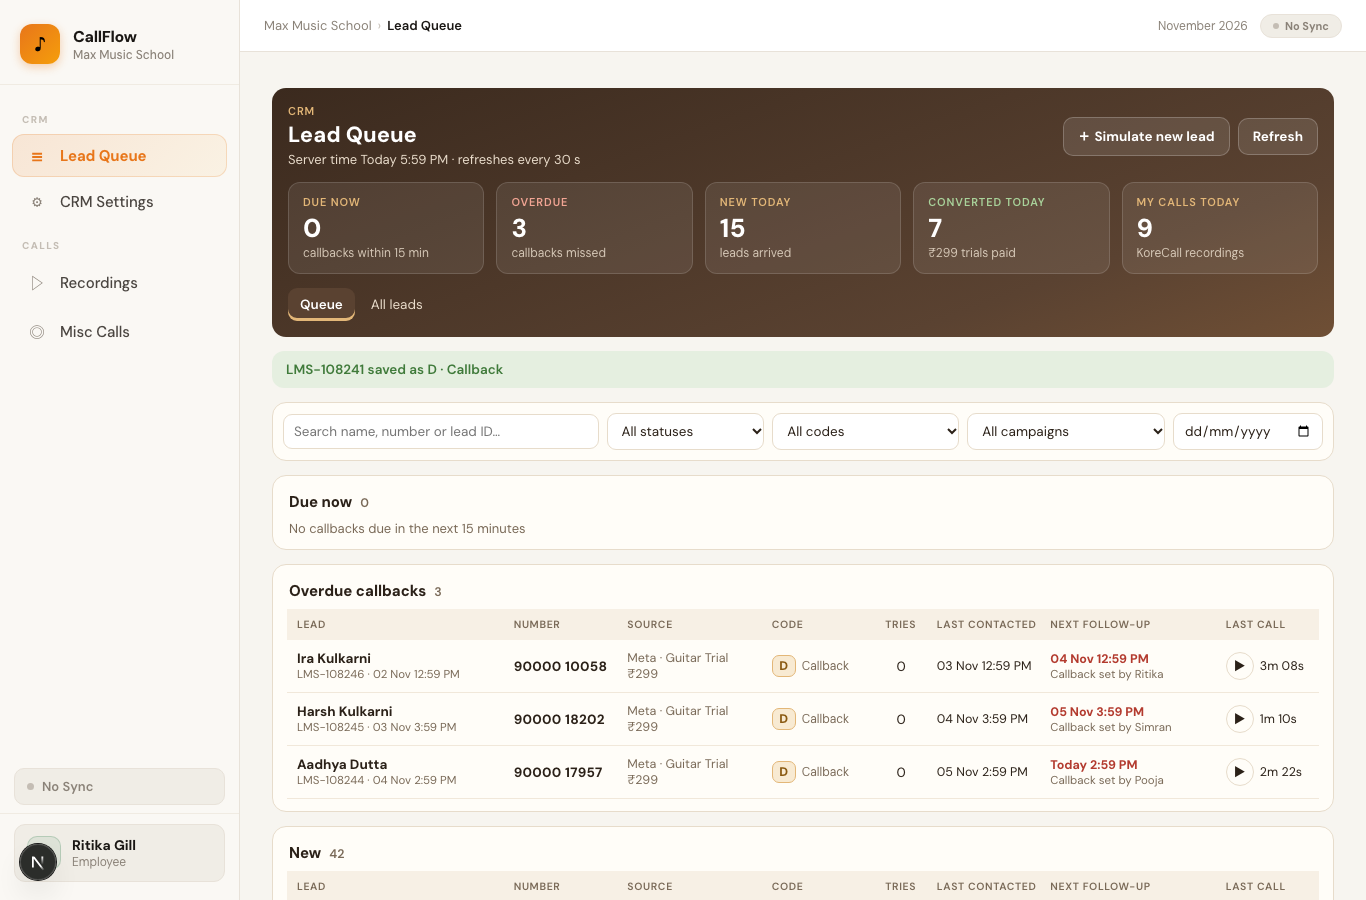
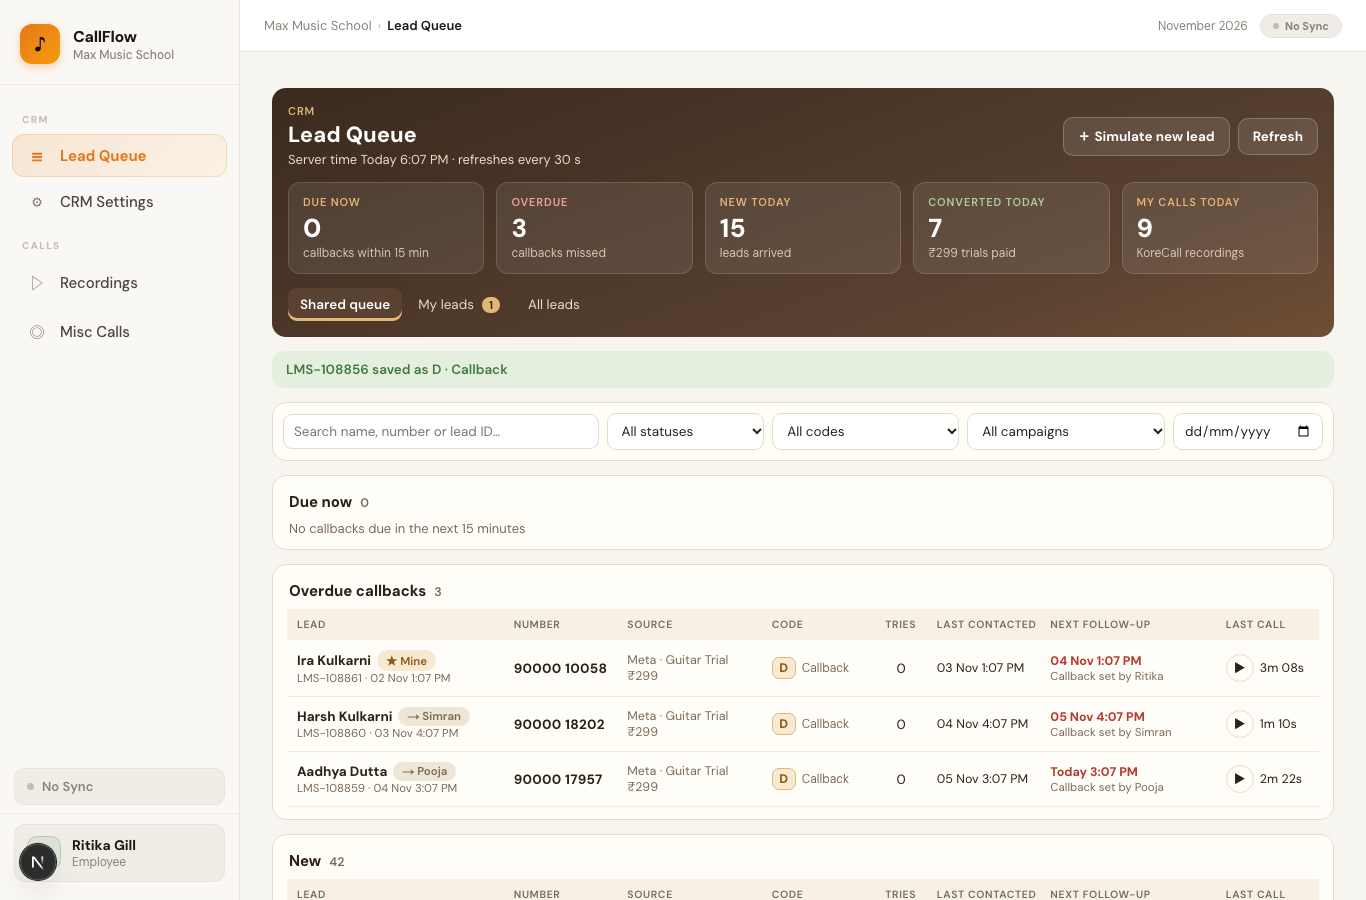
feat(crm): assign leads to reps (All Leads) and a My leads tab in the queue
- POST /crm/leads/assign (owner or reassign_leads): bulk assign or move
  back to the shared pool; bumps version and logs it in the lead history
- All Leads: Assigned-to filter, checkboxes, sticky Assign / Unassign bar,
  assignee column in the CSV export
- Queue: Shared queue / My leads (count) / All leads tabs; rows show
  '★ Mine' or '→ <rep>'; the shared queue still shows every lead
- DB test for assign / unassign / stale-version / bad rep

diff --git a/apps/web/app/dashboard/crm/leads/page.tsx b/apps/web/app/dashboard/crm/leads/page.tsx
@@ -6,7 +6,7 @@ import useSWR from "swr";
 import { R } from "@/components/report/kit";
 import Pagination from "@/components/ui/Pagination";
 import { api, fetcher } from "@/lib/api";
-import { CODES, STATUS_LABEL, type LeadRow } from "@/lib/crm";
+import { CODES, STATUS_LABEL, type CrmConfig, type LeadRow } from "@/lib/crm";
 import { useAuth } from "@/hooks/useAuth";
 import { useCrmMe } from "@/hooks/useCrmMe";
 import { Btn, CRM_CSS, HeaderBand, inputStyle } from "@/components/crm/kit";
@@ -19,15 +19,35 @@ export default function AllLeadsPage() {
   const { isOwner, id: meId } = useAuth();
   const { can, loaded } = useCrmMe();
   const [q, setQ] = useState("");
-  const [f, setF] = useState({ q: "", status: "", code: "", date: "" });
+  const [f, setF] = useState({ q: "", status: "", code: "", date: "", assigned: "" });
   const [sort, setSort] = useState<SortState>({ sort: "created_at", dir: "desc" });
   const [page, setPage] = useState(1);
   const [open, setOpen] = useState<string | null>(null);
   const [exporting, setExporting] = useState(false);
   const player = useInlinePlayer();
+  const [selected, setSelected] = useState<Set<string>>(new Set());
+  const [assignTo, setAssignTo] = useState("");
+  const [assignMsg, setAssignMsg] = useState("");
+  const [assigning, setAssigning] = useState(false);
+  const { data: cfg } = useSWR<CrmConfig>("/crm/config", fetcher);
 
   useEffect(() => { const t = setTimeout(() => setF((x) => ({ ...x, q })), 300); return () => clearTimeout(t); }, [q]);
-  useEffect(() => setPage(1), [f, sort]);
+  useEffect(() => { setPage(1); setSelected(new Set()); }, [f, sort]);
+  const select = (ids: string[], on: boolean) => setSelected((s) => { const n = new Set(s); ids.forEach((id) => (on ? n.add(id) : n.delete(id))); return n; });
+  const assign = async (employeeId: string | null) => {
+    setAssigning(true);
+    setAssignMsg("");
+    try {
+      const r = await api.post<{ updated: number; assigned_to_name: string | null }>("/crm/leads/assign", { lead_ids: [...selected], employee_id: employeeId });
+      setAssignMsg(r.assigned_to_name ? `${r.updated} lead${r.updated === 1 ? "" : "s"} assigned to ${r.assigned_to_name}` : `${r.updated} lead${r.updated === 1 ? "" : "s"} moved back to the shared pool`);
+      setSelected(new Set());
+      mutate();
+    } catch (e) {
+      setAssignMsg(`! ${(e as Error).message}`);
+    } finally {
+      setAssigning(false);
+    }
+  };
 
   const params = new URLSearchParams(Object.entries({ ...f, ...sort }).filter(([, v]) => v) as [string, string][]);
   const allowed = can("export_leads");
@@ -62,11 +82,33 @@ export default function AllLeadsPage() {
         <select value={f.code} onChange={(e) => setF({ ...f, code: e.target.value })} aria-label="Code" style={{ ...inputStyle, flex: "1 1 130px", width: "auto" }}>
           <option value="">All codes</option>{CODES.map((c) => <option key={c.code} value={c.code}>{c.code} · {c.label}</option>)}
         </select>
+        <select value={f.assigned} onChange={(e) => setF({ ...f, assigned: e.target.value })} aria-label="Assigned to" style={{ ...inputStyle, flex: "1 1 150px", width: "auto" }}>
+          <option value="">Anyone / shared pool</option><option value="none">Unassigned only</option>
+          {cfg?.reps.map((r) => <option key={r.id} value={r.id}>Assigned to {r.name}</option>)}
+        </select>
         <input type="date" value={f.date} onChange={(e) => setF({ ...f, date: e.target.value })} aria-label="Lead date" style={{ ...inputStyle, flex: "0 1 150px", width: "auto" }} />
       </div>
+      {can("reassign_leads") && (
+        <div role="region" aria-label="Assign selected leads" style={{ position: "sticky", top: 8, zIndex: 5, display: "flex", gap: 10, alignItems: "center", flexWrap: "wrap",
+          background: selected.size ? "linear-gradient(135deg,#3b2a1e,#5a4231)" : R.card, color: selected.size ? "#fff" : R.mute,
+          border: `1px solid ${selected.size ? "transparent" : R.line}`, borderRadius: 14, padding: "10px 14px", transition: "background .2s" }}>
+          <b style={{ fontSize: 14 }}>{selected.size ? `${selected.size} selected` : "Tick leads to assign them to a rep"}</b>
+          {selected.size > 0 && <>
+            <select value={assignTo} onChange={(e) => setAssignTo(e.target.value)} aria-label="Representative" style={{ ...inputStyle, width: 220 }}>
+              <option value="">Choose a representative…</option>
+              {cfg?.reps.map((r) => <option key={r.id} value={r.id}>{r.name}</option>)}
+            </select>
+            <Btn onClick={() => assign(assignTo)} disabled={!assignTo || assigning}>{assigning ? "Assigning…" : "Assign"}</Btn>
+            <Btn kind="light" onClick={() => assign(null)} disabled={assigning} title="Back to the shared pool, open to everyone">Unassign</Btn>
+            <Btn kind="light" onClick={() => setSelected(new Set())}>Clear</Btn>
+          </>}
+          {assignMsg && <span role="status" style={{ marginLeft: "auto", fontSize: 13, fontWeight: 600, color: assignMsg.startsWith("!") ? "#f2a594" : selected.size ? "#a9d39b" : R.good }}>{assignMsg}</span>}
+        </div>
+      )}
       <section style={{ background: R.card, border: `1px solid ${R.line}`, borderRadius: 14, padding: "12px 14px" }}>
         {!data ? <p style={{ color: R.mute }}>Loading…</p> : <>
-          <LeadTable rows={data.data} onOpen={setOpen} player={player} now={Date.now()} meId={meId} sort={sort} onSort={setSort} />
+          <LeadTable rows={data.data} onOpen={setOpen} player={player} now={Date.now()} meId={meId} sort={sort} onSort={setSort}
+            selected={can("reassign_leads") ? selected : undefined} onSelect={select} />
           <div style={{ marginTop: 10 }}><Pagination page={page} totalPages={Math.ceil(data.total / PAGE)} onPageChange={setPage} /></div>
         </>}
       </section>

diff --git a/apps/api/src/services/crm.service.ts b/apps/api/src/services/crm.service.ts
@@ -281,11 +281,13 @@ export const queueFilterSchema = z.object({
   code: z.string().max(1).optional(),
   campaign: z.string().max(150).optional(),
   date: z.string().regex(/^\d{4}-\d{2}-\d{2}$/).optional(),
+  // "me", "none" (unassigned) or an employee id
+  assigned: z.union([z.enum(["me", "none"]), z.string().uuid()]).optional(),
 });
 type Filters = z.infer<typeof queueFilterSchema>;
 
 /** WHERE fragments shared by the queue, the All Leads table and the CSV export. */
-export function leadFilters(f: Filters, values: unknown[]): string[] {
+export function leadFilters(f: Filters, values: unknown[], meId?: string): string[] {
   const where: string[] = [];
   const add = (sql: (n: number) => string, v: unknown) => { values.push(v); where.push(sql(values.length)); };
   if (f.q) {
@@ -300,6 +302,8 @@ export function leadFilters(f: Filters, values: unknown[]): string[] {
   if (f.code) add((n) => `l.current_code = $${n}`, f.code);
   if (f.campaign) add((n) => `l.campaign = $${n}`, f.campaign);
   if (f.date) add((n) => `(l.created_at AT TIME ZONE 'Asia/Kolkata')::date = $${n}::date`, f.date);
+  if (f.assigned === "none") where.push("l.assigned_to IS NULL");
+  else if (f.assigned) add((n) => `l.assigned_to = $${n}`, f.assigned === "me" ? meId : f.assigned);
   return where;
 }
 
@@ -308,7 +312,7 @@ export const LEAD_LIST_COLS = `
   l.last_contacted_at, l.next_followup_at, l.created_at, l.amount, l.tags, l.student_set_time,
   CASE WHEN l.locked_until > NOW() THEN k.name END AS locked_by_name,
   CASE WHEN l.locked_until > NOW() THEN l.locked_by END AS locked_by,
-  cb.name AS callback_set_by_name, asg.name AS assigned_to_name,
+  cb.name AS callback_set_by_name, l.assigned_to, asg.name AS assigned_to_name,
   (SELECT json_build_object('id', c.id, 'duration_secs', c.duration_secs, 'called_at', c.called_at,
                             'has_audio', c.audio_storage_key IS NOT NULL)
    FROM calls c WHERE c.phone10 = l.phone10 ORDER BY c.called_at DESC LIMIT 1) AS last_call`;
@@ -321,7 +325,7 @@ const SECTION_CAP = 200;
 
 export async function queue(user: User, f: Filters, now = new Date()) {
   const values: unknown[] = [];
-  const where = ["l.status IN ('new','retry','callback')", ...leadFilters(f, values)];
+  const where = ["l.status IN ('new','retry','callback')", ...leadFilters(f, values, user.sub)];
   const { rows } = await pool.query(
     `SELECT ${LEAD_LIST_COLS},
        (SELECT coalesce(i.note, i.reason) FROM lead_interactions i
@@ -342,7 +346,8 @@ export async function queue(user: User, f: Filters, now = new Date()) {
     `SELECT
        (SELECT count(*) FROM leads WHERE created_at >= ${IST_TODAY_START})::int AS new_today,
        (SELECT count(*) FROM lead_interactions WHERE code = 'F' AND created_at >= ${IST_TODAY_START})::int AS converted_today,
-       (SELECT count(*) FROM calls WHERE employee_id = $1 AND called_at >= ${IST_TODAY_START})::int AS my_calls_today`,
+       (SELECT count(*) FROM calls WHERE employee_id = $1 AND called_at >= ${IST_TODAY_START})::int AS my_calls_today,
+       (SELECT count(*) FROM leads WHERE assigned_to = $1 AND status IN ('new','retry','callback'))::int AS my_leads`,
     [user.sub]
   );
   return { server_now: now, counts, sections, kpis: { due_now: counts.due_now, overdue: counts.overdue, ...k } };
@@ -448,4 +453,42 @@ export async function reconcile(ids: string[]): Promise<string[]> {
     [ids]
   );
   return rows.map((r) => r.x);
+}
+
+/**
+ * Owner / reassign_leads: give leads to a rep (or back to the pool with null).
+ * Bumps each lead's version so an open form elsewhere gets the 409 reload, and
+ * logs who did it in the lead's history.
+ */
+export async function assignLeads(leadIds: string[], employeeId: string | null, user: User) {
+  const client = await pool.connect();
+  try {
+    await client.query("BEGIN");
+    let repName: string | null = null;
+    if (employeeId) {
+      const { rows: [e] } = await client.query("SELECT name FROM employees WHERE id = $1 AND status = 'active' AND role = 'employee'", [employeeId]);
+      if (!e) throw new CrmError(400, "Pick an active representative");
+      repName = e.name;
+    }
+    const { rows } = await client.query(
+      `UPDATE leads SET assigned_to = $2, version = version + 1, updated_by = $3, updated_at = NOW()
+       WHERE id = ANY($1::uuid[]) AND assigned_to IS DISTINCT FROM $2 RETURNING id`,
+      [leadIds, employeeId, user.sub]
+    );
+    if (rows.length) {
+      await client.query(
+        `INSERT INTO lead_interactions (lead_id, employee_id, kind, note, meta)
+         SELECT id, $2, 'system', $3, $4 FROM unnest($1::uuid[]) AS id`,
+        [rows.map((r) => r.id), user.sub, repName ? `Assigned to ${repName} by ${user.name}` : `Moved back to the shared pool by ${user.name}`,
+         JSON.stringify({ assigned_to: employeeId })]
+      );
+    }
+    await client.query("COMMIT");
+    return { updated: rows.length, assigned_to_name: repName };
+  } catch (e) {
+    await client.query("ROLLBACK");
+    throw e;
+  } finally {
+    client.release();
+  }
 }

diff --git a/apps/web/app/dashboard/crm/page.tsx b/apps/web/app/dashboard/crm/page.tsx
@@ -16,6 +16,7 @@ import Pagination from "@/components/ui/Pagination";
 const IS_DEV = process.env.NODE_ENV !== "production";
 type Filters = { q: string; status: string; code: string; campaign: string; date: string };
 const EMPTY: Filters = { q: "", status: "", code: "", campaign: "", date: "" };
+type View = "queue" | "mine" | "all";
 
 function qs(f: Filters, extra: Record<string, string | number> = {}) {
   const p = new URLSearchParams();
@@ -25,7 +26,7 @@ function qs(f: Filters, extra: Record<string, string | number> = {}) {
 
 export default function LeadQueuePage() {
   const { isOwner, id: meId } = useAuth();
-  const [tab, setTab] = useState<"queue" | "all">("queue");
+  const [tab, setTab] = useState<View>("queue");
   const [f, setF] = useState<Filters>(EMPTY);
   const [q, setQ] = useState("");
   const [open, setOpen] = useState<string | null>(null);
@@ -39,7 +40,7 @@ export default function LeadQueuePage() {
   useEffect(() => { const id = new URLSearchParams(window.location.search).get("lead"); if (id) setOpen(id); }, []);
   useEffect(() => { if (!toast) return; const t = setTimeout(() => setToast(""), 4000); return () => clearTimeout(t); }, [toast]);
 
-  const { data, error, mutate } = useSWR<QueueResponse>(`/crm/queue?${qs(f)}`, fetcher, { refreshInterval: 30_000 });
+  const { data, error, mutate } = useSWR<QueueResponse>(`/crm/queue?${qs(f, tab === "mine" ? { assigned: "me" } : {})}`, fetcher, { refreshInterval: 30_000 });
   const now = data ? new Date(data.server_now).getTime() : Date.now();
   const campaigns = [...new Set(Object.values(data?.sections ?? {}).flat().map((l) => l.campaign).filter(Boolean))] as string[];
 
@@ -73,7 +74,10 @@ export default function LeadQueuePage() {
           <BandTile label="My calls today" value={data?.kpis.my_calls_today ?? "—"} sub="KoreCall recordings" />
         </div>
         <nav aria-label="Queue views" style={{ display: "flex", gap: 4 }}>
-          <button style={tabBtn(tab === "queue")} onClick={() => setTab("queue")} aria-current={tab === "queue"}>Queue</button>
+          <button style={tabBtn(tab === "queue")} onClick={() => setTab("queue")} aria-current={tab === "queue"}>Shared queue</button>
+          <button style={tabBtn(tab === "mine")} onClick={() => setTab("mine")} aria-current={tab === "mine"}>
+            My leads {!!data?.kpis.my_leads && <span style={{ background: R.gold, color: "#3b2a1e", borderRadius: 999, fontSize: 11, fontWeight: 800, padding: "1px 7px" }}>{data.kpis.my_leads}</span>}
+          </button>
           <button style={tabBtn(tab === "all")} onClick={() => setTab("all")} aria-current={tab === "all"}>All leads</button>
         </nav>
       </HeaderBand>
@@ -98,8 +102,15 @@ export default function LeadQueuePage() {
       {error ? <p role="alert" style={{ color: R.bad }}>{(error as Error).message}</p>
         : tab === "all" ? <AllLeads f={f} onOpen={setOpen} player={player} now={now} meId={meId} />
         : !data ? <p style={{ color: R.mute }}>Loading queue…</p>
-        : (
+        : tab === "mine" && !Object.values(data.counts).some(Boolean) ? (
+          <section style={{ background: R.card, border: `1px solid ${R.line}`, borderRadius: 14, padding: "22px 18px", textAlign: "center", color: R.mute }}>
+            <b style={{ color: R.ink, fontSize: 15 }}>No leads assigned to you right now.</b>
+            <div style={{ fontSize: 13, marginTop: 4 }}>Work the shared queue: anything there is open to everyone.</div>
+            <div style={{ marginTop: 10 }}><Btn kind="ghost" onClick={() => setTab("queue")}>Go to the shared queue</Btn></div>
+          </section>
+        ) : (
           <>
+            {tab === "mine" && <p style={{ margin: "0 2px", fontSize: 13, color: R.mute }}>Leads the owner gave you, and callbacks assigned to you. Everyone can still see them in the shared queue.</p>}
             <Section title="Due now" rows={data.sections.due_now} count={data.counts.due_now} onOpen={setOpen} player={player} now={now} meId={meId} empty="No callbacks due in the next 15 minutes" />
             <Section title="Overdue callbacks" rows={data.sections.overdue} count={data.counts.overdue} onOpen={setOpen} player={player} now={now} meId={meId} empty="Nothing overdue" />
             <Section title="New" rows={data.sections.new} count={data.counts.new} onOpen={setOpen} player={player} now={now} meId={meId} empty="No new leads" />

diff --git a/apps/web/components/crm/LeadTable.tsx b/apps/web/components/crm/LeadTable.tsx
@@ -31,8 +31,10 @@ export function useInlinePlayer() {
 
 export type SortState = { sort: string; dir: "asc" | "desc" };
 
-export default function LeadTable({ rows, onOpen, player, now, meId, sort, onSort, empty = "No leads here" }: {
+export default function LeadTable({ rows, onOpen, player, now, meId, sort, onSort, empty = "No leads here", selected, onSelect }: {
   rows: LeadRow[]; onOpen: (id: string) => void; player: ReturnType<typeof useInlinePlayer>; now: number; meId: string;
+  /** Checkbox column (All Leads → assign) */
+  selected?: Set<string>; onSelect?: (ids: string[], on: boolean) => void;
   sort?: SortState; onSort?: (s: SortState) => void; empty?: string;
 }) {
   if (!rows.length) return <p style={{ margin: "6px 2px 0", color: R.mute, fontSize: 13 }}>{empty}</p>;
@@ -50,8 +52,12 @@ export default function LeadTable({ rows, onOpen, player, now, meId, sort, onSor
     <div style={{ overflowX: "auto" }}>
       <table style={{ width: "100%", borderCollapse: "collapse", fontSize: 13.5, tableLayout: "fixed", minWidth: 1000 }}>
         {/* Fixed widths so every queue section lines up */}
-        <colgroup>{[21, 11, 14, 11, 5, 11, 17, 10].map((w, i) => <col key={i} style={{ width: `${w}%` }} />)}</colgroup>
+        <colgroup>{(selected ? [3, 20, 11, 13, 11, 5, 11, 16, 10] : [21, 11, 14, 11, 5, 11, 17, 10]).map((w, i) => <col key={i} style={{ width: `${w}%` }} />)}</colgroup>
         <thead><tr>
+          {selected && onSelect && (
+            <th style={thStyle}><input type="checkbox" aria-label="Select all on this page" checked={rows.every((r) => selected.has(r.id))}
+              onChange={(e) => onSelect(rows.map((r) => r.id), e.target.checked)} style={{ width: 16, height: 16, accentColor: R.out }} /></th>
+          )}
           {head("Lead", "lead_code")}{head("Number")}{head("Source")}{head("Code", "status")}{head("Tries", "attempts")}
           {head("Last contacted", "last_contacted_at")}{head("Next follow-up", "next_followup_at")}{head("Last call")}
         </tr></thead>
@@ -59,13 +65,21 @@ export default function LeadTable({ rows, onOpen, player, now, meId, sort, onSor
           {rows.map((l) => {
             const due = l.bucket === "due_now";
             return (
-              <tr key={l.id} className={`crm-row${due ? " crm-due" : ""}`} tabIndex={0} style={{ cursor: "pointer" }}
+              <tr key={l.id} className={`crm-row${due ? " crm-due" : ""}`} tabIndex={0} style={{ cursor: "pointer", ...(selected?.has(l.id) ? { background: "#fff4e3" } : {}) }}
                 onClick={() => onOpen(l.id)} onKeyDown={(e) => e.key === "Enter" && onOpen(l.id)}>
+                {selected && onSelect && (
+                  <td style={tdStyle} onClick={(e) => e.stopPropagation()}>
+                    <input type="checkbox" aria-label={`Select ${l.name}`} checked={selected.has(l.id)} onChange={(e) => onSelect([l.id], e.target.checked)}
+                      style={{ width: 16, height: 16, accentColor: R.out }} />
+                  </td>
+                )}
                 <td style={tdStyle}>
                   <div style={{ display: "flex", gap: 6, alignItems: "center", flexWrap: "wrap" }}>
                     <b>{l.name || "Unnamed"}</b>
                     {due && <span className="crm-due-pill"><Tag tone="gold">Due now</Tag></span>}
                     {l.tags?.includes("re-enquired") && <Tag tone="gold">re-enquired</Tag>}
+                    {l.assigned_to === meId ? <Tag tone="gold" title="Assigned to you">★ Mine</Tag>
+                      : l.assigned_to_name ? <Tag title={`Assigned to ${l.assigned_to_name}`}>→ {l.assigned_to_name.split(" ")[0]}</Tag> : null}
                     {l.locked_by_name && l.locked_by !== meId && <Tag title={`${l.locked_by_name} has this lead open`}>🔒 {l.locked_by_name.split(" ")[0]}</Tag>}
                   </div>
                   <div style={{ fontSize: 11.5, color: R.mute }}>{l.lead_code} · {fmtAgo(l.created_at, now)}</div>

diff --git a/apps/api/src/routes/crm.routes.ts b/apps/api/src/routes/crm.routes.ts
@@ -8,7 +8,7 @@ import { requirePermission } from "../middleware/requirePermission";
 import { resolveRange } from "../lib/dateRange";
 import { CODES, PERMISSIONS, outcomeSchema } from "../lib/crm/rules";
 import {
-  CrmError, LEAD_LIST_COLS, LEAD_LIST_JOINS, MAX_INGEST_ROWS, claimLock, getSetting, ingestRows, leadDetail, leadFilters,
+  CrmError, LEAD_LIST_COLS, assignLeads, LEAD_LIST_JOINS, MAX_INGEST_ROWS, claimLock, getSetting, ingestRows, leadDetail, leadFilters,
   permissionsOf, queue, queueFilterSchema, reconcile, releaseLock, reviveLead, saveOutcome,
 } from "../services/crm.service";
 import { crmReport, digestData, digestHtml, linkPair } from "../services/crmReports.service";
@@ -93,7 +93,7 @@ const listSchema = queueFilterSchema.extend({
 router.get("/leads", async (req, res) => {
   const f = parse(listSchema, req.query);
   const values: unknown[] = [];
-  const where = leadFilters(f, values);
+  const where = leadFilters(f, values, user(req).sub);
   const w = where.length ? `WHERE ${where.join(" AND ")}` : "";
   const [list, count] = await Promise.all([
     pool.query(
@@ -116,17 +116,22 @@ const csvCell = (v: unknown) => {
 router.get("/leads/export.csv", requirePermission("export_leads"), async (req, res) => {
   const f = parse(listSchema, req.query);
   const values: unknown[] = [];
-  const where = leadFilters(f, values);
+  const where = leadFilters(f, values, user(req).sub);
   const { rows } = await pool.query(
     `SELECT l.lead_code, l.name, l.phone10, l.email, l.source, l.campaign, l.status, l.current_code, l.attempts,
-            l.last_contacted_at, l.next_followup_at, l.amount, l.tags, l.created_at
-     FROM leads l ${where.length ? `WHERE ${where.join(" AND ")}` : ""}
+            l.last_contacted_at, l.next_followup_at, l.amount, l.tags, l.created_at, a.name AS assigned_to
+     FROM leads l LEFT JOIN employees a ON a.id = l.assigned_to ${where.length ? `WHERE ${where.join(" AND ")}` : ""}
      ORDER BY ${SORTS[f.sort]} ${f.dir} NULLS LAST LIMIT 50000`,
     values
   );
-  const cols = ["lead_code", "name", "phone10", "email", "source", "campaign", "status", "current_code", "attempts", "last_contacted_at", "next_followup_at", "amount", "tags", "created_at"];
+  const cols = ["lead_code", "name", "phone10", "email", "source", "campaign", "status", "current_code", "assigned_to", "attempts", "last_contacted_at", "next_followup_at", "amount", "tags", "created_at"];
   res.type("text/csv").set("Content-Disposition", `attachment; filename="leads.csv"`);
   return res.send([cols.join(","), ...rows.map((r) => cols.map((c) => csvCell(r[c])).join(","))].join("\n"));
+});
+
+router.post("/leads/assign", requirePermission("reassign_leads"), async (req, res) => {
+  const b = parse(z.object({ lead_ids: z.array(uuid).min(1).max(500), employee_id: uuid.nullable() }), req.body);
+  return res.json(await assignLeads(b.lead_ids, b.employee_id, user(req)));
 });
 
 router.get("/leads/:id", async (req, res) => {

diff --git a/apps/api/src/lib/crm/db.test.ts b/apps/api/src/lib/crm/db.test.ts
@@ -7,7 +7,7 @@ import { after, before, test } from "node:test";
 import assert from "node:assert/strict";
 import pool from "../../db/pool";
 import { assertLocalDb } from "./localDb";
-import { claimLock, CrmError, ingestRows, reconcile, saveOutcome } from "../../services/crm.service";
+import { assignLeads, claimLock, CrmError, ingestRows, reconcile, saveOutcome } from "../../services/crm.service";
 import { outcomeSchema } from "./rules";
 
 assertLocalDb(process.env.DATABASE_URL, "crm db.test");
@@ -139,4 +139,21 @@ test("ingest is idempotent; the same number re-enquires instead of duplicating",
   assert.equal(leads[0].status, "new");
   assert.deepEqual(leads[0].tags, ["re-enquired"]);
   assert.deepEqual(await reconcile(["t-1", "t-3", "t-404"]), ["t-404"]);
+});
+
+test("assign: leads go to a rep and back to the pool, bumping version and logging it", async () => {
+  const a = await lead("9000020020"), b = await lead("9000020021");
+  const owner = { sub: priya.sub, role: "owner" as const, name: "Owner" } as unknown as U;
+  const r = await assignLeads([a.id, b.id], neha.sub, owner);
+  assert.deepEqual(r, { updated: 2, assigned_to_name: "Neha" });
+  assert.equal((await assignLeads([a.id], neha.sub, owner)).updated, 0);  // already Neha's: no-op
+  const { rows } = await pool.query("SELECT assigned_to, version FROM leads WHERE id = $1", [a.id]);
+  assert.deepEqual(rows[0], { assigned_to: neha.sub, version: 2 });
+  // A form opened before the assignment now gets the 409 reload
+  await assert.rejects(saveOutcome(a.id, neha, out({ version: 1, code: "B" })), (e: CrmError) => e.status === 409);
+  await assignLeads([a.id], null, owner);
+  assert.equal((await pool.query("SELECT assigned_to FROM leads WHERE id = $1", [a.id])).rows[0].assigned_to, null);
+  const notes = (await pool.query("SELECT note FROM lead_interactions WHERE lead_id = $1 AND kind = 'system' ORDER BY created_at", [a.id])).rows.map((x) => x.note);
+  assert.deepEqual(notes, ["Assigned to Neha by Owner", "Moved back to the shared pool by Owner"]);
+  await assert.rejects(assignLeads([b.id], "00000000-0000-0000-0000-000000000000", owner), (e: CrmError) => e.status === 400);
 });

diff --git a/apps/web/lib/crm.ts b/apps/web/lib/crm.ts
@@ -65,7 +65,7 @@ export type QueueResponse = {
   server_now: string;
   counts: Record<string, number>;
   sections: Record<"due_now" | "overdue" | "new" | "retry" | "later", LeadRow[]>;
-  kpis: { due_now: number; overdue: number; new_today: number; converted_today: number; my_calls_today: number };
+  kpis: { due_now: number; overdue: number; new_today: number; converted_today: number; my_calls_today: number; my_leads: number };
 };
 
 export type CallInfo = {
